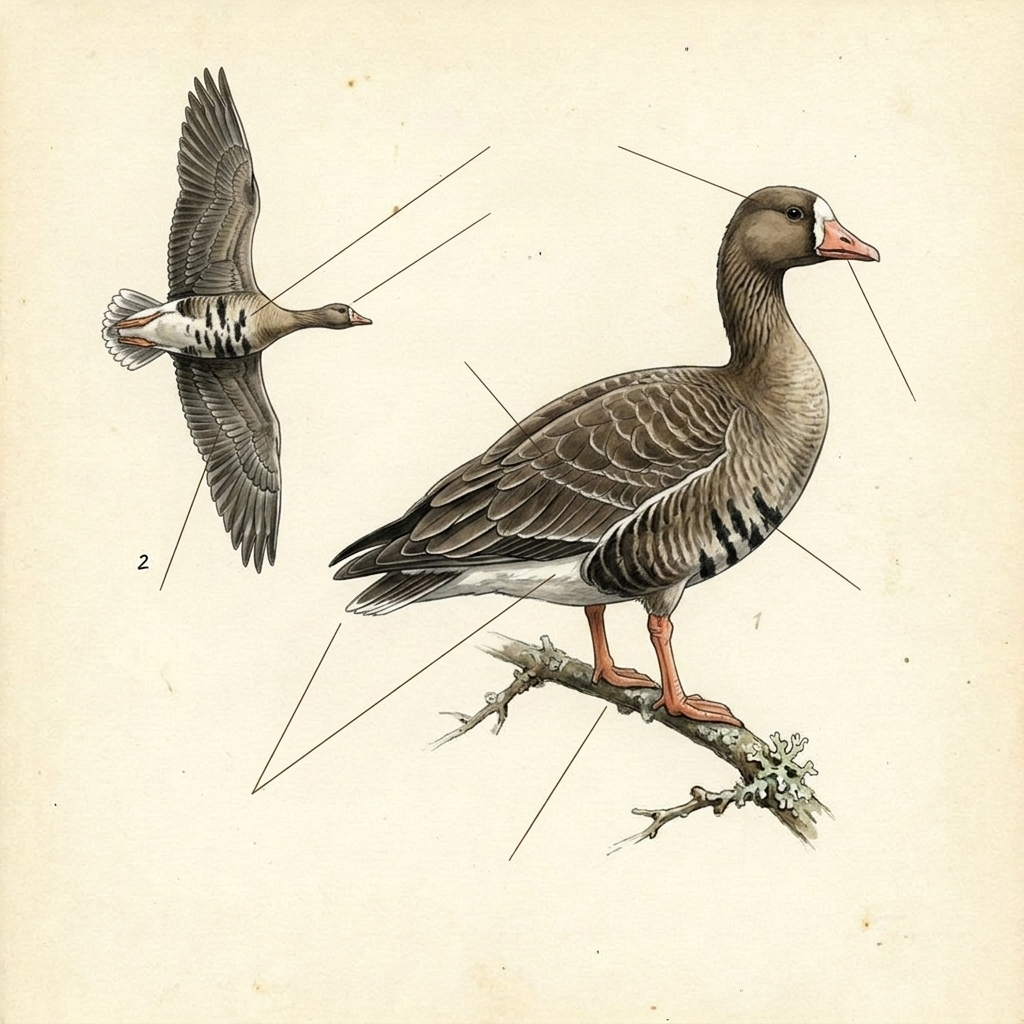
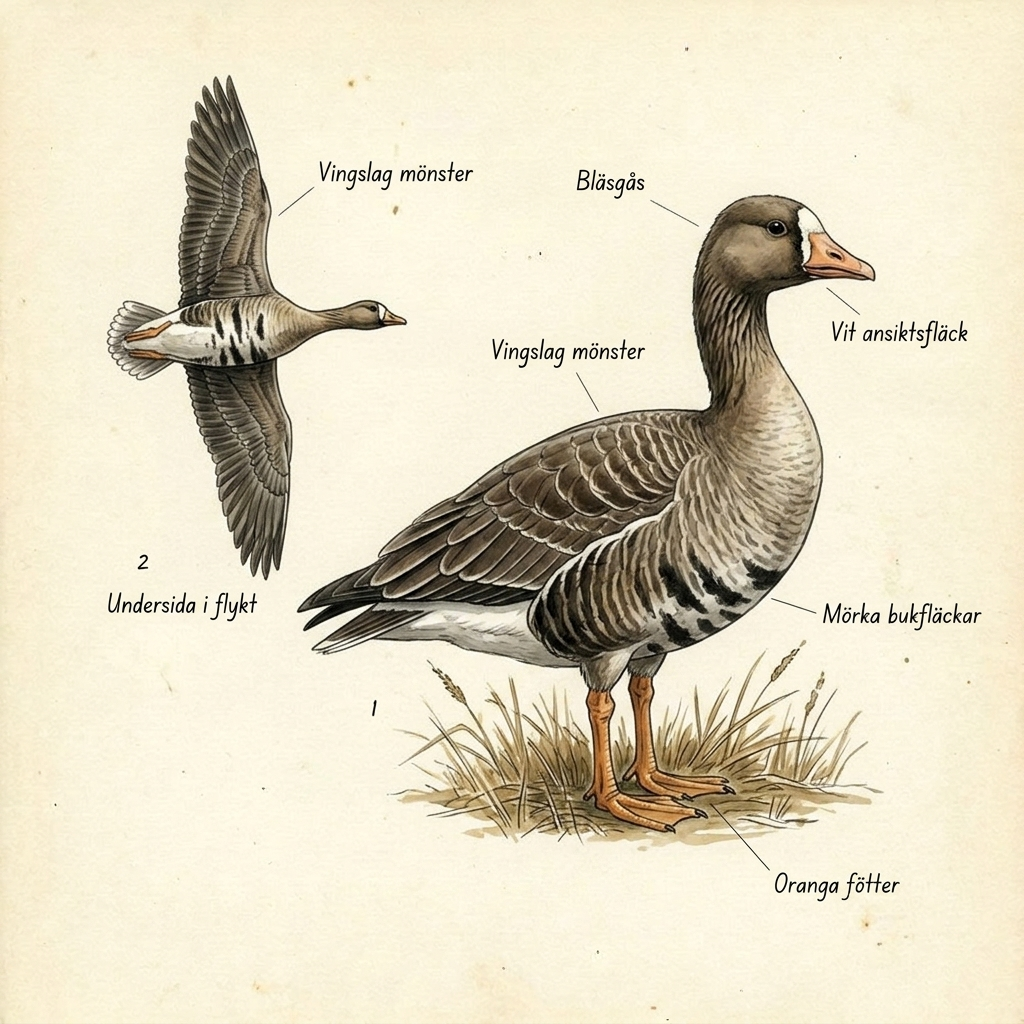
Finish all 31 waterfowl images and update app.js

diff --git a/app.js b/app.js
@@ -2410,7 +2410,8 @@ function getGuideImageSrc(birdId) {
         // Andfåglar
         'knolsvan', 'sangsvan', 'kanadagas', 'gragas', 'vitkindadgas', 'prutgas', 'grasand', 'kricka',
         'blasand', 'vigg', 'knipa', 'ejder', 'alfagel', 'storskrake', 'skedand', 'snatterand', 'mandarinand',
-        'bergand', 'blasgas', 'brunand'
+        'bergand', 'blasgas', 'brunand', 'gravand', 'salskrake', 'sjoorre', 'smaskrake', 'stjartand',
+        'svarta', 'sadgas', 'spetsbergsgas', 'stripgas', 'arta', 'fjallgas'
     ]);
     
     if (completedBirds.has(normalizedName)) {
@@ -2512,7 +2513,18 @@ const IDENTIFY_IMAGES = {
         { file: 'images/identifiera/andfaglar/mandarinand.png', label: 'Mandarinand', similarTo: [] },
         { file: 'images/identifiera/andfaglar/bergand.png', label: 'Bergand', similarTo: ['Vigg'] },
         { file: 'images/identifiera/andfaglar/blasgas.png', label: 'Bläsgås', similarTo: ['Fjällgås'] },
-        { file: 'images/identifiera/andfaglar/brunand.png', label: 'Brunand', similarTo: ['Bläsand'] }
+        { file: 'images/identifiera/andfaglar/brunand.png', label: 'Brunand', similarTo: ['Bläsand'] },
+        { file: 'images/identifiera/andfaglar/gravand.png', label: 'Gravand', similarTo: [] },
+        { file: 'images/identifiera/andfaglar/salskrake.png', label: 'Salskrake', similarTo: ['Storskrake'] },
+        { file: 'images/identifiera/andfaglar/sjoorre.png', label: 'Sjöorre', similarTo: ['Svärta'] },
+        { file: 'images/identifiera/andfaglar/smaskrake.png', label: 'Småskrake', similarTo: ['Storskrake'] },
+        { file: 'images/identifiera/andfaglar/stjartand.png', label: 'Stjärtand', similarTo: ['Gräsand'] },
+        { file: 'images/identifiera/andfaglar/svarta.png', label: 'Svärta', similarTo: ['Sjöorre'] },
+        { file: 'images/identifiera/andfaglar/sadgas.png', label: 'Sädgås', similarTo: ['Grågås', 'Spetsbergsgås'] },
+        { file: 'images/identifiera/andfaglar/spetsbergsgas.png', label: 'Spetsbergsgås', similarTo: ['Sädgås'] },
+        { file: 'images/identifiera/andfaglar/stripgas.png', label: 'Stripgås', similarTo: [] },
+        { file: 'images/identifiera/andfaglar/arta.png', label: 'Årta', similarTo: ['Kricka'] },
+        { file: 'images/identifiera/andfaglar/fjallgas.png', label: 'Fjällgås', similarTo: ['Bläsgås'] }
     ]
 };
 